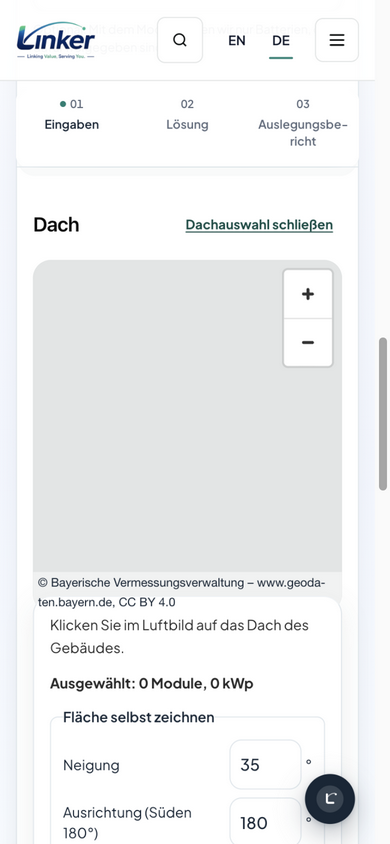
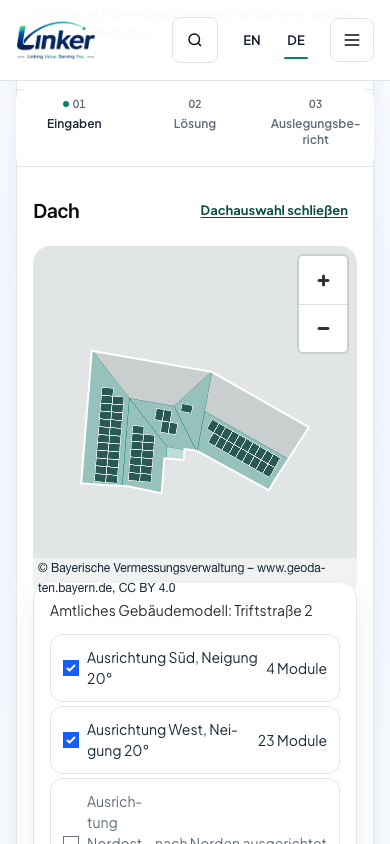
Close the four deferred leftovers, and give the engine its origin
The review sweep deferred four items; the owner's verdict is in and they are
closed here:

- the account notices reserve the slot WooCommerce's absolutely-positioned
  status icon sits in (3.5em, the default it used to have), so the icon no
  longer covers the first character of the message
- the approved-customer price assertion reads the .pdp-price element instead
  of the whole body: the body carries a freight estimate whose digits (14,90 €
  -> 1490) satisfied the old body-wide match on their own
- the configurator roof evidence is retaken on the merged line: outline,
  module rows, the official building model (Triftstraße 2) and the attribution
  are all in the frame

The retake exposed the real blocker behind the old blank evidence:
LINKER_ENGINE_CORS_ORIGINS was read by the engine and set by nobody, so the
browser blocked every cross-origin engine call (the roof step first). `just
serve` now passes the instance's own origin, and the cutover's MANUAL list
carries the production requirement (the VPS engine must allow
https://de-linker.com).

diff --git a/tests/e2e/specs/products.spec.ts b/tests/e2e/specs/products.spec.ts
@@ -183,16 +183,21 @@ test.describe('the products', () => {
 			await page.goto(signInLink());
 			await page.goto(`${instance().url}${PRODUCT[locale]}`);
 			const text = await page.locator('body').innerText();
-			expect(text, 'the customer sees a price').toMatch(PRICE);
 			expect(text, 'the product page offers the solution draft').toMatch(
 				DRAFT_BUTTON[locale]
 			);
 
-			// The price the customer sees is an amount, not a placeholder: four
-			// digits or more once the separators are gone (1.234,56 € or
-			// €1,234.56 — a battery module is never cheaper than 100).
+			// The price the customer sees is the product's own price, read from
+			// the price element rather than the page text: the body carries a
+			// freight estimate (14,90 €) whose digits would otherwise satisfy
+			// any body-wide match, price or not.
+			const priceText = await page.locator('.pdp-price').first().innerText();
+			expect(priceText, 'the customer sees a price').toMatch(PRICE);
+			// An amount, not a placeholder: four digits or more once the
+			// separators are gone (1.234,56 € or €1,234.56 — a battery module is
+			// never cheaper than 100).
 			const price = /(?:€|EUR)\s?\d[\d.,]*|\d[\d.,]*\s?(?:€|EUR)/.exec(
-				text
+				priceText
 			)?.[0];
 			expect(price, 'a price is on the page').toBeTruthy();
 			expect(

diff --git a/plugins/linker-commerce/content/windpress/account.css b/plugins/linker-commerce/content/windpress/account.css
@@ -185,7 +185,8 @@ body.woocommerce-account:not(.logged-in) .linker-account .woocommerce-error,
 body.woocommerce-account:not(.logged-in) .linker-account .woocommerce-message,
 body.woocommerce-account:not(.logged-in) .linker-account .woocommerce-info {
 	margin: 0 0 var(--proto-space-4);
-	padding: var(--proto-space-3) var(--proto-space-4);
+	/* 3.5em keeps WooCommerce’s absolutely-positioned status icon clear of the text. */
+	padding: var(--proto-space-3) var(--proto-space-4) var(--proto-space-3) 3.5em;
 	border: 1px solid var(--proto-line-journal);
 	border-left: 3px solid var(--proto-teal-600);
 	border-radius: var(--proto-radius-md);
@@ -1191,7 +1192,8 @@ body.woocommerce-account.logged-in .linker-account .woocommerce-error,
 body.woocommerce-account.logged-in .linker-account .woocommerce-message,
 body.woocommerce-account.logged-in .linker-account .woocommerce-info {
 	margin: 0 0 var(--proto-space-5);
-	padding: var(--proto-space-3) var(--proto-space-4);
+	/* 3.5em keeps WooCommerce’s absolutely-positioned status icon clear of the text. */
+	padding: var(--proto-space-3) var(--proto-space-4) var(--proto-space-3) 3.5em;
 	border: 1px solid var(--proto-neutral-200);
 	border-left: 3px solid var(--proto-teal-600);
 	border-radius: var(--proto-radius-md);

diff --git a/plugins/linker-commerce/content/windpress/auth.css b/plugins/linker-commerce/content/windpress/auth.css
@@ -209,7 +209,8 @@
 	body.woocommerce-account:not(.logged-in) .linker-account :is(.woocommerce-error, .woocommerce-message, .woocommerce-info),
 	#tv-woo-b2b-checkout .woocommerce-error {
 		border-radius: var(--proto-radius-card);
-		padding: var(--proto-space-4);
+		/* 3.5em keeps WooCommerce’s status icon clear of the text. */
+		padding: var(--proto-space-4) var(--proto-space-4) var(--proto-space-4) 3.5em;
 		margin: 0 0 var(--proto-space-5);
 		background: var(--proto-neutral-50);
 		border-color: var(--proto-line-journal);

diff --git a/tools/local/src/linker_local/services.py b/tools/local/src/linker_local/services.py
@@ -115,7 +115,7 @@ def running(instance: Instance) -> list[str]:
 
 
 def _engine_environment(instance: Instance, checkout: Checkout) -> dict[str, str]:
-    """The two data paths the engine needs; the feed is fetched from the site.
+    """The engine's data paths and the origin allowance; the feed is fetched from the site.
 
     The instance serves the feed itself (`linker/v1/engineering-feed`, public
     and cacheable), so the file is a copy of what the running site's catalogue
@@ -140,6 +140,9 @@ def _engine_environment(instance: Instance, checkout: Checkout) -> dict[str, str
     return {
         "LINKER_ENGINE_FEED": str(feed),
         "LINKER_ENGINE_COMPATIBILITY": str(compatibility),
+        # The configurator calls the engine cross-origin from the page; without
+        # this allowance the browser blocks every call (the roof step first).
+        "LINKER_ENGINE_CORS_ORIGINS": instance.url,
     }
 
 

diff --git a/tools/cutover/src/linker_cutover/plan.py b/tools/cutover/src/linker_cutover/plan.py
@@ -181,6 +181,9 @@ OBJECT_CACHE_DROPIN = "wp-content/object-cache.php"
 MANUAL = (
     "hPanel: cron every minute runs `wp cron event run --due-now`",
     "LiteSpeed: purge the whole cache (or `wp litespeed-purge all`) after the switch",
+    "VPS: run the engine with LINKER_ENGINE_CORS_ORIGINS=https://de-linker.com — the "
+    "configurator calls the engine cross-origin, and without the allowance the browser "
+    "blocks every call (the roof step first)",
 )
 
 # The read-only regression subset of spec 17 §7. German URLs come from the
